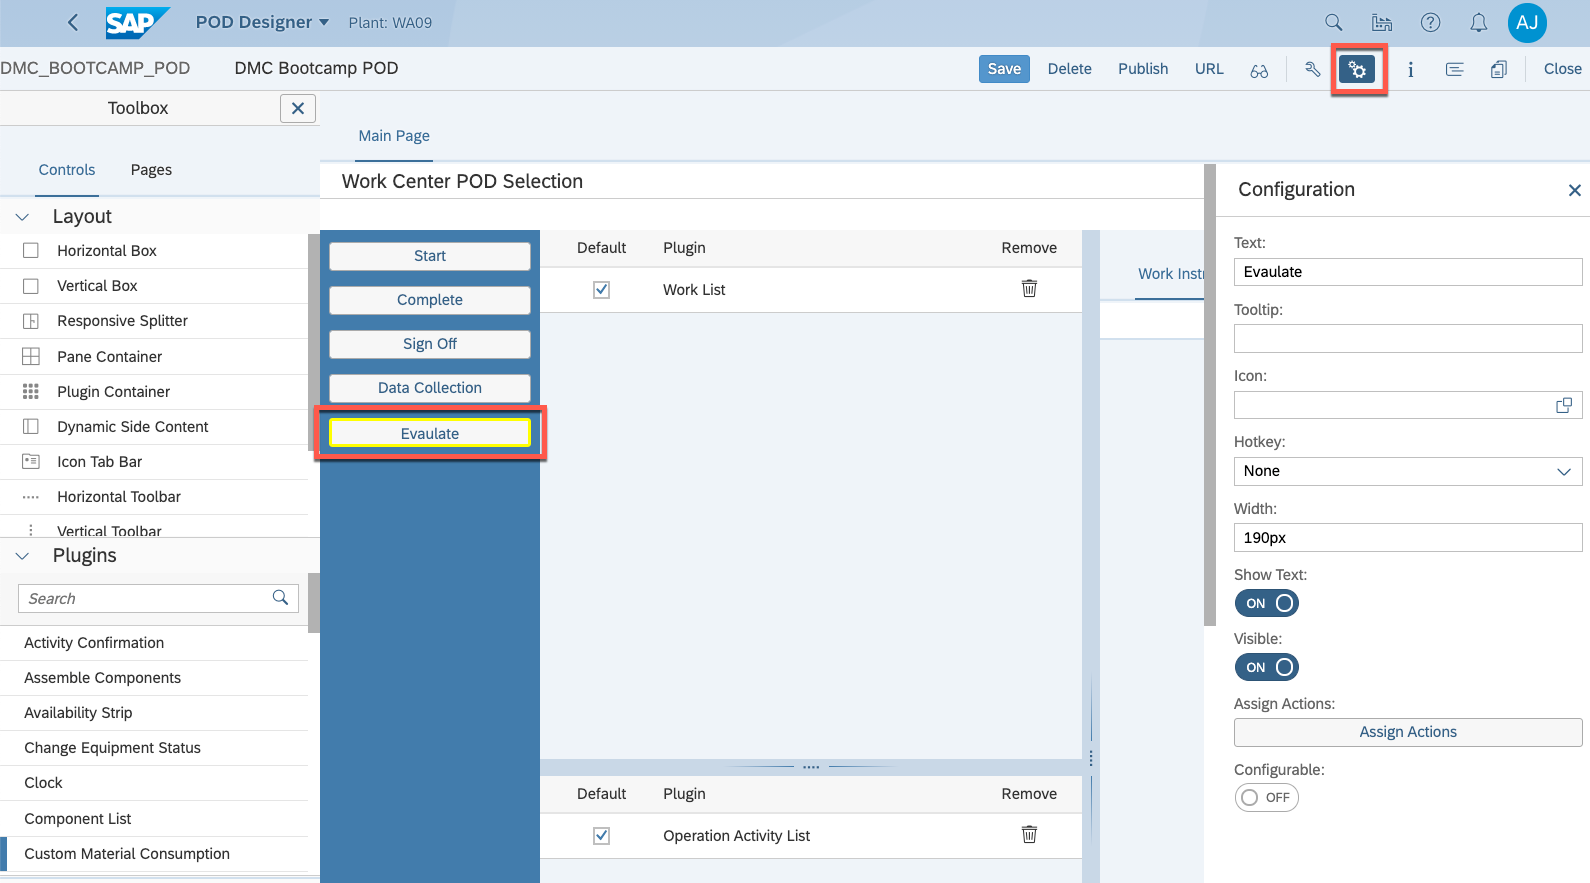
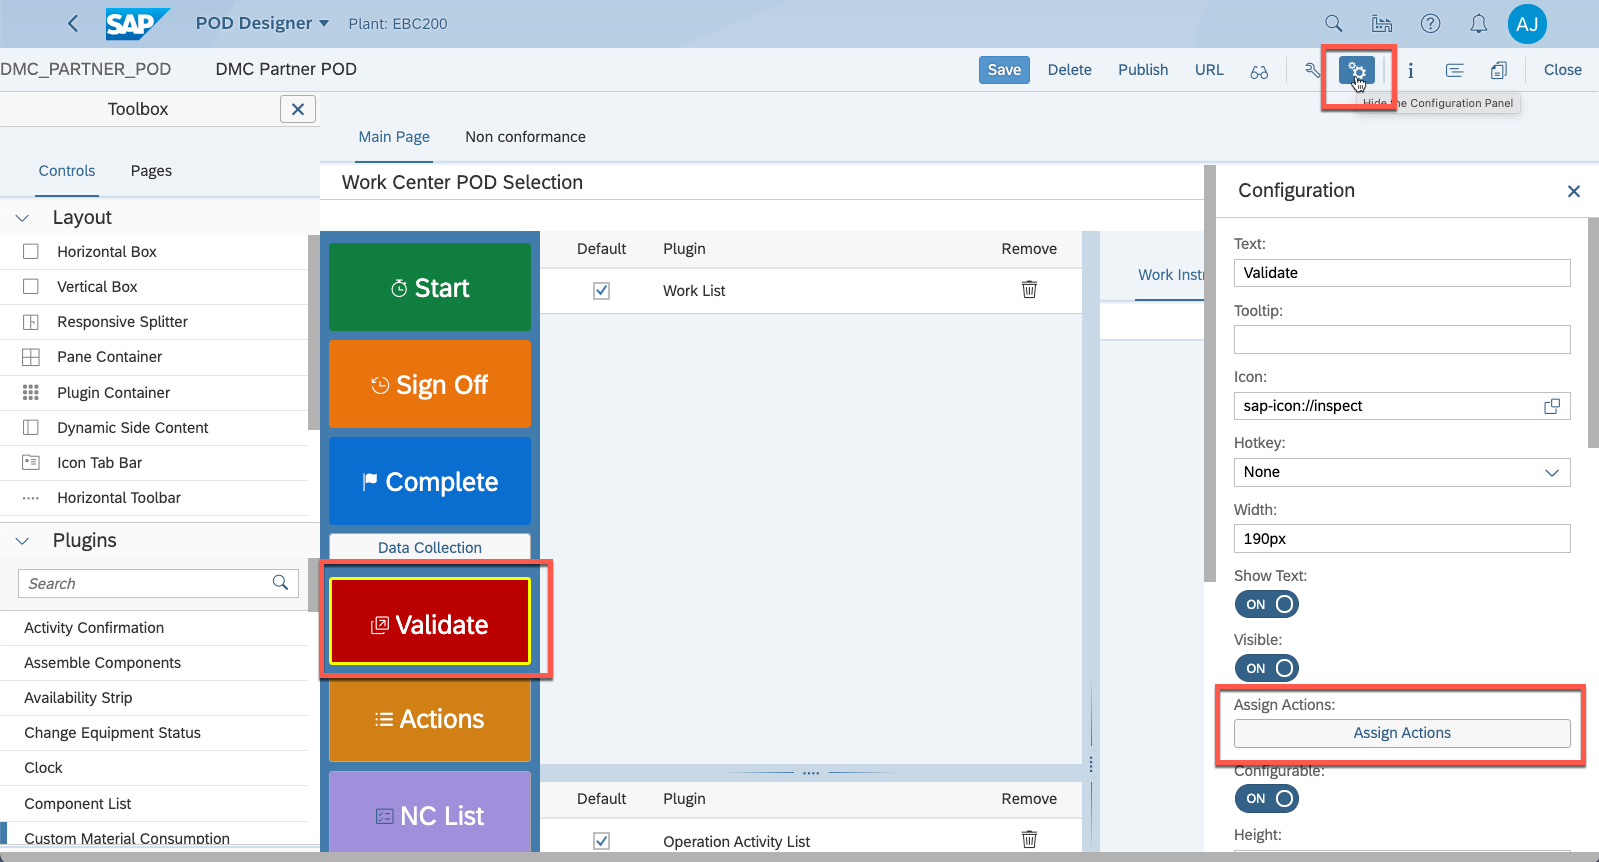
Update the Exercise 1.2 and Exercise 2.1

Changed region(s): [[0.0, 0.1508, 1.0, 1.0], [0.5855, 0.0, 1.0, 0.1508], [0.0, 0.0, 0.2774, 0.1508]]

diff --git a/docs/Exercise2.1.md b/docs/Exercise2.1.md
@@ -7,7 +7,7 @@ In this exercise, we would like to show you how to write your own business appli
 
 - SAP BTP, Kyma runtime instance
 - [Docker](https://www.docker.com/)
-- [kubectl](https://kubernetes.io/docs/tasks/tools/install-kubectl/) configured to use the `KUBECONFIG` file downloaded from the Kyma runtime.
+- [kubectl](https://kubernetes.io/docs/tasks/tools/install-kubectl/) configured to use the `KUBECONFIG` file downloaded from the Kyma runtime. Please also refer to SAP Tutorial for Install the Kubernetes Command Line Tool. [https://developers.sap.com/tutorials/cp-kyma-download-cli.html](https://developers.sap.com/tutorials/cp-kyma-download-cli.html) 
 
 ## Step 1: Build your own business application
 1. Access to your Kyma Dashboard.
@@ -26,14 +26,14 @@ In this exercise, we would like to show you how to write your own business appli
 
 6. Open the folder "api-mssql-nodejs" which is under "DMC_ProcessExtensions" in the Visual Studio Code.
 ![](assets/Exercise3.1_OpenInVSCode.png)
-
-7. Build and push the image to your Docker repository.
+ 
+7. (Optional) Build and push the image to your Docker repository.
 	
 		docker build -t {your-docker-account}/mssqlnodejs -f docker/Dockerfile .
 	
 		docker push {your-docker-account}/mssqlnodejs
 
-8. Replace the image name with your docker account in the /k8s/deployment.yaml file.
+8. (Optional) Replace the image name with your docker account in the /k8s/deployment.yaml file.
 ![](assets/Exercise3.1_ModifyDeploymentFile.png)
 
 9. Apply the Deployment.
@@ -433,7 +433,7 @@ In this exercise, we would like to show you how to write your own business appli
 
 1. 	Open "POD Designer" App and select your own POD (e.g. DMC_BOOTCAMP_POD).
 
-2. Select the "Evaluate" button, and click "Configuration" button to show the configuration panel.
+2. Select the "Validate" button, and click "Configuration" button to show the configuration panel.
 	![](assets/Exercise3.1_ConfigureEvaulateButton.png)
 
 3. Click "Assign Actions" button and click "Add" Button to add the action.

diff --git a/docs/Exercise1.2.md b/docs/Exercise1.2.md
@@ -22,10 +22,10 @@ In this exercise, we would like to show you how you can release Production Order
 6. Enter the name of your function, e.g get-nextnumber and click Create.
 ![](assets/Exercise1.1_CreateFunction.png)
 
-6. Go to the "Source" tab under "Code" tab, copy the sample code "index.js" from [Github Sample Code](https://github.tools.sap/DigitalManufacturingExtensions/DMCExtensibilityBootcamp/blob/master/DMC_InAppExtensions/index.js) and paste in the inline editor.
+6. Go to the "Source" tab under "Code" tab, copy the sample code "index.js" under the folder "DMC_InAppExtensions" from [Github Sample Code](https://github.com/SAP-samples/digital-manufacturing-extension-samples) and paste in the inline editor.
 ![](assets/Exercise1.1_CopyIndexJS.png)
 
-7. Go to the "Dependencies" tab under "Code" tab, copy the sample code "package.json" from [Github Sample Code](https://github.tools.sap/DigitalManufacturingExtensions/DMCExtensibilityBootcamp/blob/master/DMC_InAppExtensions/package.json) and paste in the inline editor.
+7. Go to the "Dependencies" tab under "Code" tab, copy the sample code "package.json" under the folder "DMC_InAppExtensions" from [Github Sample Code](https://github.com/SAP-samples/digital-manufacturing-extension-samples) and paste in the inline editor.
 ![](assets/Exercise1.1_CopyPackageJson.png)
 
 8. In the Environment Variables area, add the following environment varaibles.
